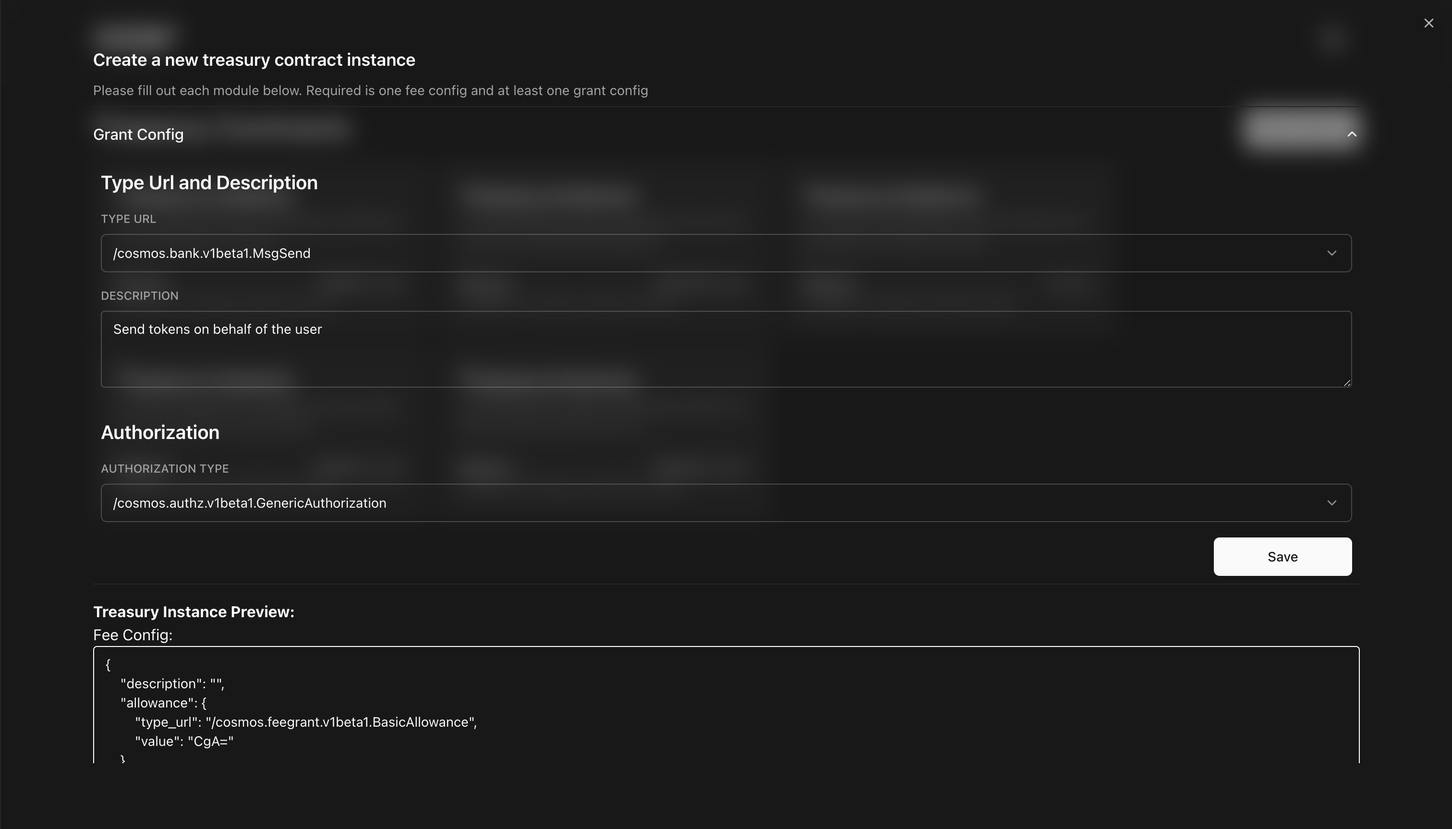
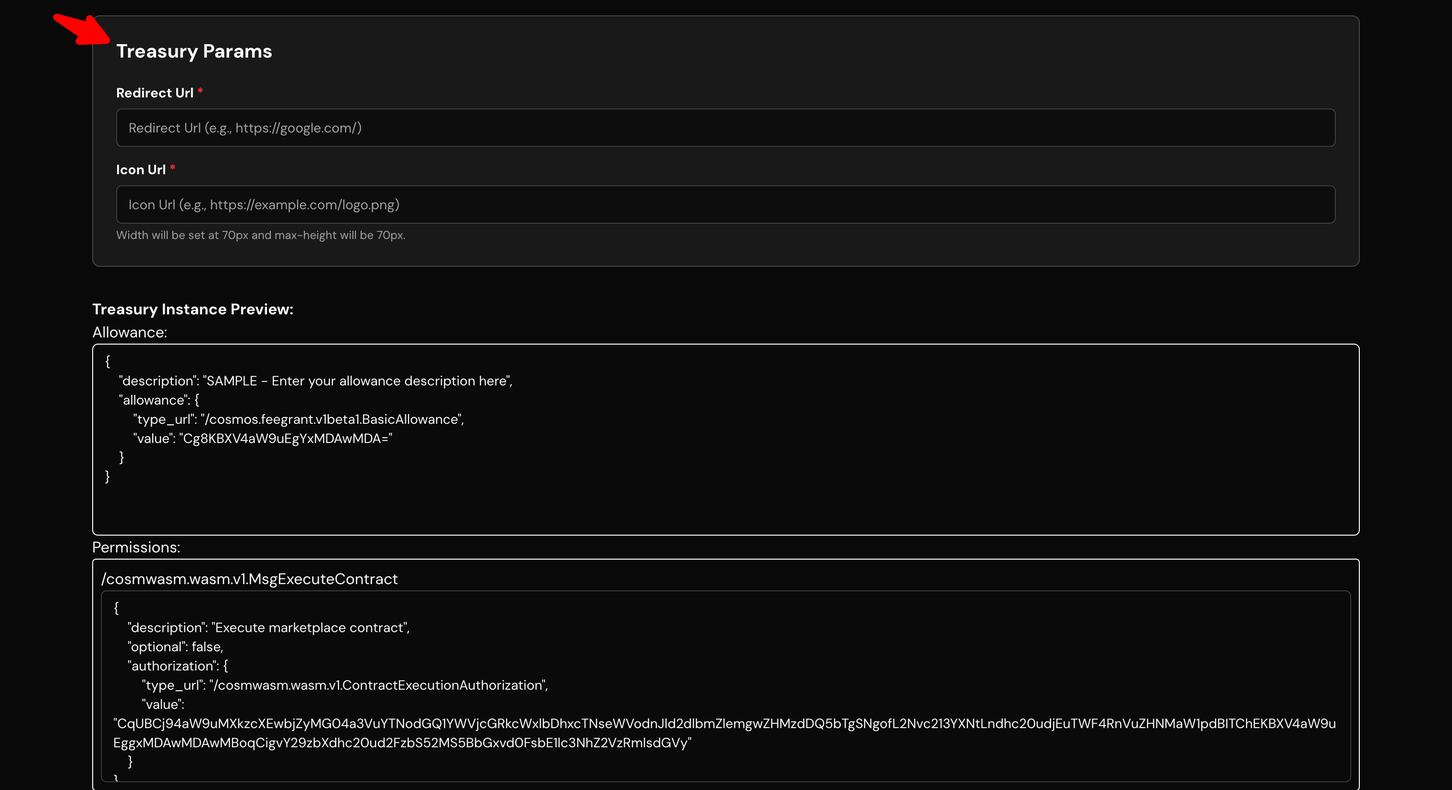
GITBOOK-487: No subject

diff --git a/developers/getting-started-advanced/gasless-ux-and-permission-grants/treasury-contracts.md b/developers/getting-started-advanced/gasless-ux-and-permission-grants/treasury-contracts.md
@@ -6,19 +6,19 @@ description: >-
 
 # Enabling Gasless Transactions with Treasury Contracts
 
-Treasury contracts introduce an OAuth-like authentication flow fully on-chain, allowing developers to create intricate allowance systems that enable delegated authorization. This allows an account (the granter — the end user) to grant permission to another account (the grantee — the treasury contract) to execute specific types of transactions on their behalf. These contracts also enable a gasless experience for end users via fee grants. This guide walks you through using the developer portal to deploy your app’s first treasury contract.
+Treasury contracts introduce an OAuth-like authentication flow fully on-chain, allowing developers to create intricate allowance systems that enable delegated authorization. This allows an account (the granter who is the end user) to grant permission to another account (the grantee, the treasury contract) to execute specific types of transactions on their behalf. These contracts also enable a gasless experience for end users via fee grants. This guide walks you through using the developer portal to deploy your app’s first treasury contract.
 
 {% hint style="info" %}
-Each treasury contract deployment is designed for a single app. Think of it like setting up OAuth for your application, where your app requests access to data from the XION chain on behalf of the user — without accessing any private information.
+Each treasury contract deployment is designed for a single app. Think of it like setting up OAuth for your application, where your app requests access to data from the XION chain on behalf of the user, without accessing any private information.
 {% endhint %}
 
 ## **Understanding Fee Grants and Authorizations**
 
-Treasury contracts leverage two key modules to provide their core functionality: **Fee Grants** and **Authz (Authorization)**. These modules enable **gasless transactions** and **delegated authorization**, enhancing the user experience.
+Treasury contracts leverage two key modules to provide their core functionality: **Fee Grants** and **Authz**. These modules enable **gasless transactions** and **delegated authorization**, enhancing the user experience.
 
 ### **Fee Grants**
 
-The **Fee Grant module** allows an account (**granter**) to cover gas fees for another account (**grantee**), making transactions **gasless for the end user**. This feature is particularly useful for **onboarding users**, as it removes the need for them to **hold native tokens** to pay for transaction fees.
+The **Fee Grant module** allows an account (**granter**) to cover gas fees for another account (**grantee**), making transactions **gasless** for the end user. This feature is particularly useful for **onboarding users**, as it removes the need for them to **hold native tokens** to pay for transaction fees.
 
 #### **How Fee Grants Work?**
 
@@ -55,7 +55,7 @@ By combining **Fee Grants** and **Authz**, **Treasury Contracts** offer **a seam
 
 We have developed a **Developer Portal** to provide resources that developers can leverage within their apps. The first feature available is the **creation and management of Treasury Contracts**. You can access the Developer Portal using the following links:
 
-* **Testnet**: [https://dev.testnet2.burnt.com](https://dev.testnet2.burnt.com)
+* **Testnet**: [https://dev.testnet.burnt.com](https://dev.testnet.burnt.com/)
 * **Mainnet**: [https://dev.burnt.com](https://dev.burnt.com)
 
 To perform any actions, you must **log in to the portal**. After logging in, you will be automatically redirected to the **Dashboard**, where you can create and manage your deployed Treasury Contracts.
@@ -75,19 +75,19 @@ The **Dashboard** displays all your deployed **Treasury Contracts**. Once you cr
 
 To create a new **Treasury Contract**, follow these steps:
 
-1. Click the **"New treasury"** button located at the **top right corner** of the Dashboard.
+1. Click the **"New Treasury"** button located at the **top right corner** of the Dashboard.
 2. A setup screen will appear, prompting you to configure the contract settings.
 
-<figure><img src="../../../.gitbook/assets/image (46).png" alt=""><figcaption></figcaption></figure>
+<figure><img src="../../../.gitbook/assets/image.png" alt=""><figcaption></figcaption></figure>
 
 You must complete the required fields for each module:
 
-* **Fee Grant:** At least **one fee grant** is required to enable gasless transactions.
-* **Grant Config:** At least **one authorization grant** must be set up to define transaction permissions.
+* **Allowance Configuration:** At least **one fee grant** is required to enable gasless transactions.
+* **Permissions:** At least **one authorization grant** must be set up to define transaction permissions.
 
 In the next sections, we'll go through each module in more detail.
 
-### Fee Grant
+### **Allowance Configuration (**&#x46;ee Grant)
 
 The **Fee Grant** section allows you to set up a mechanism to cover gas fees for user interactions within your app. There are three types of fee allowances available:
 
@@ -117,9 +117,9 @@ The **Fee Grant** section allows you to set up a mechanism to cover gas fees for
 
 Once saved, the Fee Grant settings will be applied, which you can see in the "T**reasury Instance Preview**":
 
-<figure><img src="../../../.gitbook/assets/image (47).png" alt=""><figcaption></figcaption></figure>
+<figure><img src="../../../.gitbook/assets/image (1).png" alt=""><figcaption></figcaption></figure>
 
-### Grant Configuration
+### Permissions
 
 This section allows you to define **transaction permissions (allowances)** that users must agree to before your app can execute actions on their behalf.
 
@@ -128,11 +128,11 @@ This section allows you to define **transaction permissions (allowances)** that 
 1. **Enter a Description**
    * Provide a **clear and concise description** explaining the purpose of the authorization.
    * This description will be shown to users when they click **"Allow"** after connecting their account.
-2. **Select a Type URL**
-   * The **Type URL** determines the kind of transactions your app will be authorized to perform.
-   * **Example**: Selecting `"/cosmwasm.wasm.v1.MsgExecuteContract"` allows your app to execute transactions on a smart contract on behalf of the user.
+2. **Select a Permission Type**
+   * The **Permission** **Type** determines the kind of transactions your app will be authorized to perform.
+   * **Example**: Selecting "`Execute on a smart contract`" allows your app to execute transactions on a smart contract on behalf of the user.
      * **Define Contract Execution Authorization**
-       * **Select the authorization type** (currently, `"/cosmwasm.wasm.v1.ContractExecutionAuthorization"` is the only option).
+       * **Select the authorization type** (currently, "`Contract execution authorization`" is the only option).
        * **Enter the contract address** that your app will interact with on behalf of the user.
      * **Set Transaction Limits (Optional)**
        * You can impose restrictions on:
@@ -144,25 +144,27 @@ This section allows you to define **transaction permissions (allowances)** that 
        * **Accepted message keys** – Specify which message types can be executed.
        * **Accepted raw messages** – Define precise message structures that can be processed.
 
-#### **Customization and Editing**
-
-* All configurations generated here can be edited and customized as needed.
-* Ensure that **keys are always in snake\_case** (e.g., `max_spend_limit`) and not camelCase (`maxSpendLimit`).
-
 Once configured, these settings define how your Treasury Contract interacts with users and enforces controlled transaction execution.
 
-<figure><img src="../../../.gitbook/assets/image (48).png" alt=""><figcaption></figcaption></figure>
+<figure><img src="../../../.gitbook/assets/image (3).png" alt=""><figcaption></figcaption></figure>
 
 Once you've entered all the required information, click the **"Add contract grant"** button.
 
 **Important Notes:**
 
-* You can add **multiple Grant Configs**, allowing you to define different permissions for various interactions.
-* After adding all the necessary grant configurations, click the **"Create"** button to finalize and deploy the Treasury Contract.
+* You can add **multiple Permissions**, allowing you to define different permissions for various interactions.
 
-<figure><img src="../../../.gitbook/assets/image (50).png" alt=""><figcaption></figcaption></figure>
+<figure><img src="../../../.gitbook/assets/image (4).png" alt=""><figcaption></figcaption></figure>
 
-Once created, the contract will appear on the **Dashboard**.
+### Treasury Params
+
+There are a few parameters that you can configure within your treasury contract instacne. Currently the parameters are limited to a **redirect URL** which is the URL users will be redirected to after successful login and **Icon URL** which will display this icon on the Abstraxion login screen.
+
+These two parameters are required and so you need to fill in the values:
+
+<figure><img src="../../../.gitbook/assets/image (6).png" alt=""><figcaption></figcaption></figure>
+
+Once those parameters have been added you can scroll down to the bottom of the page and click the "**Create**" button to create your treasury contract instance. Once created, the contract will appear on the **Dashboard**.
 
 {% hint style="success" %}
 **Fund the Treasury Contract**: Transfer **XION tokens** to the contract to ensure it can cover gas fees for fee grants.
@@ -172,7 +174,7 @@ Once created, the contract will appear on the **Dashboard**.
 
 Once a Treasury contract is created, it will appear in the **Dashboard**. To edit it, simply click on the contract from the list, which will open a management screen.
 
-<figure><img src="../../../.gitbook/assets/image (51).png" alt=""><figcaption></figcaption></figure>
+<figure><img src="../../../.gitbook/assets/image (7).png" alt=""><figcaption></figcaption></figure>
 
 ### Withdraw Funds
 
@@ -182,7 +184,7 @@ To withdraw any funds sent to the Treasury contract:
 2. A withdrawal screen will appear.
 3. Enter the amount to withdraw which transfers funds from the Treasury contract back to the admin account.
 
-<figure><img src="../../../.gitbook/assets/image (52).png" alt=""><figcaption></figcaption></figure>
+<figure><img src="../../../.gitbook/assets/image (8).png" alt=""><figcaption></figcaption></figure>
 
 ### Update Params <a href="#radix-r14" id="radix-r14"></a>
 
@@ -191,26 +193,30 @@ To modify the parameters:
 1. Click the **"Update Params"** button.
 2. A configuration screen will load, allowing you to adjust relevant params.
 
-<figure><img src="../../../.gitbook/assets/image (53).png" alt=""><figcaption></figcaption></figure>
+<figure><img src="../../../.gitbook/assets/image (9).png" alt=""><figcaption></figcaption></figure>
 
-### Update Fee Config
+### Edit Allowance
 
-To edit the fee config:
+To edit the allowance:
 
-1. Click the **"Edit"** button under the **Fee Config** section.
-2. This will open a screen where you can adjust the fee parameters.
+1. Click the **"Edit"** button under the **Allowance** section.
+2. This will open a screen where you can adjust the allowance parameters.
 
-<figure><img src="../../../.gitbook/assets/image (54).png" alt=""><figcaption></figcaption></figure>
+<figure><img src="../../../.gitbook/assets/image (10).png" alt=""><figcaption></figcaption></figure>
 
-### Update and Add Grant Configs
+### Update and Add Permissions
 
-To modify existing grant configurations or add new ones, click the **arrow** next to the listed permission.
+To add a new permission click the "**Add New**" button.
 
-<figure><img src="../../../.gitbook/assets/image (55).png" alt=""><figcaption></figcaption></figure>
+<figure><img src="../../../.gitbook/assets/image (11).png" alt=""><figcaption></figcaption></figure>
 
-A screen will open where you can edit the configuration:
+A screen will open where you can add the new permission:
 
-<figure><img src="../../../.gitbook/assets/image (56).png" alt=""><figcaption></figcaption></figure>
+<figure><img src="../../../.gitbook/assets/image (12).png" alt=""><figcaption></figcaption></figure>
+
+To edit a permission click the "**Edit**" button in the permission listing. A screen will open where you can edit the configuration:
+
+<figure><img src="../../../.gitbook/assets/image (13).png" alt=""><figcaption></figcaption></figure>
 
 If creating a new grant:
 
@@ -218,23 +224,19 @@ If creating a new grant:
 * Enter the required field data.
 * Click **"Save"** to create a new Grant Config.
 
-Each Grant Config will be displayed under the **Permissions** section in the Dashboard:
-
-<figure><img src="../../../.gitbook/assets/image (57).png" alt=""><figcaption></figcaption></figure>
-
 ### Delete a Grant Configs
 
 If you need to remove a grant configuration from your treasury contract, you can easily do so through the grant config listing interface. The process involves selecting the grant you wish to delete, confirming the action.
 
 To delete an existing grant configurations click the **trash bin** icon on the right of the listed permission.
 
-<figure><img src="../../../.gitbook/assets/image (3).png" alt=""><figcaption></figcaption></figure>
+<figure><img src="../../../.gitbook/assets/image (14).png" alt=""><figcaption></figcaption></figure>
 
 **Confirm Deletion**
 
 After clicking the trash bin icon, a popup window will appear with the title **"Remove grant config"**. The body of the popup will display the following message: _"**Are you sure you want to remove the \<type url of config> grant config?**"_
 
-<figure><img src="../../../.gitbook/assets/image (3) (1).png" alt=""><figcaption></figcaption></figure>
+<figure><img src="../../../.gitbook/assets/image (3) (1) (1).png" alt=""><figcaption></figcaption></figure>
 
 * **Cancel**: If you change your mind and do not want to delete the grant config, simply click the **Cancel** button to close the popup without making any changes.
 * **Confirm**: If you're sure you want to delete the grant config, click the **Confirm** button.

diff --git a/developers/learn-and-build/token-factory/building-a-react-dapp-to-interact-with-token-factory-tokens.md b/developers/learn-and-build/token-factory/building-a-react-dapp-to-interact-with-token-factory-tokens.md
@@ -1,4 +1,4 @@
-# Building a React App to Interact with Token Factory Tokens
+# Building a React dApp to Interact with Token Factory Tokens
 
 This guide walks through creating a React-based decentralized application (app) that interacts with a token created using the XION Token Factory. This app will:
 
@@ -51,7 +51,7 @@ Before integrating the **Abstraxion SDK** into the application, we first need to
 
 #### Fee Grant
 
-<figure><img src="../../../.gitbook/assets/image (9).png" alt=""><figcaption><p>Example of a general <strong>Fee Grant</strong> configuration</p></figcaption></figure>
+<figure><img src="../../../.gitbook/assets/image (9) (1).png" alt=""><figcaption><p>Example of a general <strong>Fee Grant</strong> configuration</p></figcaption></figure>
 
 1. Enter a **"Description"** in the description field. This will reflect the intended purpose of the request.
 2. In the **"Allowance Type"** field, enter `"/cosmwasm.feegrant.v1beta1.BasicAllowance"`.
@@ -60,7 +60,7 @@ Before integrating the **Abstraxion SDK** into the application, we first need to
 
 #### **Grant Config**
 
-<figure><img src="../../../.gitbook/assets/image (5).png" alt=""><figcaption><p>Example of additional <strong>Grant</strong> configuration</p></figcaption></figure>
+<figure><img src="../../../.gitbook/assets/image (5) (1).png" alt=""><figcaption><p>Example of additional <strong>Grant</strong> configuration</p></figcaption></figure>
 
 1. For this example the **"Type URL"** would be `"`/cosmos.bank.v1beta1.MsgSend`"` as this would allow for the app the send tokens on behalf of the user.
 2. Enter a **"Description"** in the description field. This will reflect the intended purpose of the request. This description will be displayed to users when they click **"Allow"** after connecting their account.
@@ -69,7 +69,7 @@ Before integrating the **Abstraxion SDK** into the application, we first need to
 
 #### Treasury Instance Preview
 
-<figure><img src="../../../.gitbook/assets/image (6).png" alt=""><figcaption></figcaption></figure>
+<figure><img src="../../../.gitbook/assets/image (6) (1).png" alt=""><figcaption></figcaption></figure>
 
 Once the preview is to your liking click the "**Create**" button to create the Treasury contract.
 

diff --git a/developers/getting-started-advanced/your-first-dapp/build-react-dapp-with-account-abstraxion.md b/developers/getting-started-advanced/your-first-dapp/build-react-dapp-with-account-abstraxion.md
@@ -84,7 +84,7 @@ Before integrating the **Abstraxion SDK** into the application, we first need to
 
 #### Fee Grant
 
-<figure><img src="../../../.gitbook/assets/image (9).png" alt=""><figcaption><p>Example of a general <strong>Fee Grant</strong> configuration</p></figcaption></figure>
+<figure><img src="../../../.gitbook/assets/image (9) (1).png" alt=""><figcaption><p>Example of a general <strong>Fee Grant</strong> configuration</p></figcaption></figure>
 
 1. Enter a **"Description"** in the respective field. This will reflect the intended purpose of the request. This description will be displayed to users when they click **"Allow"** after connecting their account.
 2. In the **"Allowance Type"** field, enter `"/cosmwasm.feegrant.v1beta1.BasicAllowance"`.
@@ -93,7 +93,7 @@ Before integrating the **Abstraxion SDK** into the application, we first need to
 
 #### **Grant Config**
 
-<figure><img src="../../../.gitbook/assets/image (11).png" alt=""><figcaption><p>Example of additional <strong>Grant</strong> configuration</p></figcaption></figure>
+<figure><img src="../../../.gitbook/assets/image (11) (1).png" alt=""><figcaption><p>Example of additional <strong>Grant</strong> configuration</p></figcaption></figure>
 
 1. For the **"Type URL"** field, select `"/cosmwasm.wasm.v1.MsgExecuteContract"`.
 2. Enter a **"Description"** in the respective field. This will reflect the intended purpose of the request. This description will be displayed to users when they click **"Allow"** after connecting their account.
@@ -108,7 +108,7 @@ Before integrating the **Abstraxion SDK** into the application, we first need to
 
 #### Treasury Instance Preview
 
-<figure><img src="../../../.gitbook/assets/image (10).png" alt=""><figcaption></figcaption></figure>
+<figure><img src="../../../.gitbook/assets/image (10) (1).png" alt=""><figcaption></figcaption></figure>
 
 Once the preview is to your liking click the "**Create**" button to create the Treasury contract.
 

diff --git a/developers/section-overview/cosmwasm-resources/introductory-section/README.md b/developers/section-overview/cosmwasm-resources/introductory-section/README.md
@@ -1,4 +1,4 @@
-# Introductory Section&#x20;
+# Introductory Section
 
 The introductory section provides an overview of the core principles behind CosmWasm Smart Contracts. While a basic familiarity with Rust could be beneficial, the material is designed to cater to individuals of all proficiency levels, irrespective of their prior experience. Our goal is to offer clear and accessible guidance, allowing newcomers to gain practical insights through a comprehensive, step-by-step tutorial that delves into the following subjects:
 
@@ -21,9 +21,8 @@ You might have observed that the development of smart contracts is not covered i
 
 [Deployment and Interaction](deployment-and-interaction/): This section demonstrates the deployment of a contract to the testnet, instantiation, and the execution of smart contract functions.
 
-[Next Steps](broken-reference): The concluding part of this tutorial, Next Steps, summarizes the Getting Started section and directs you towards further learning resources.
+[Next Steps](/broken/pages/BNCM8Cp6N7L23FSUHiRj): The concluding part of this tutorial, Next Steps, summarizes the Getting Started section and directs you towards further learning resources.
 
-\
+<br>
 
-
-\
+<br>

diff --git a/xions-core/learn/intro-to-account-abstraction.md b/xions-core/learn/intro-to-account-abstraction.md
@@ -19,4 +19,4 @@ The second type of account, smart contract accounts (SCAs), are governed by code
 
 ### Account Abstraction (AA)
 
-As a solution to EOA drawbacks mentioned above, account abstraction has been proposed as a way to enable SCAs to initiate transactions. Rather than having transaction authentication determined by a predefined set of rules at the state machine level, account abstraction delegates this task to SCAs. SCAs can then implement customized authentication logic as needed, such as accommodating key rotation, performing autonomous tasks, integrating multiple-factor authentication, and much more.\
+As a solution to EOA drawbacks mentioned above, account abstraction has been proposed as a way to enable SCAs to initiate transactions. Rather than having transaction authentication determined by a predefined set of rules at the state machine level, account abstraction delegates this task to SCAs. SCAs can then implement customized authentication logic as needed, such as accommodating key rotation, performing autonomous tasks, integrating multiple-factor authentication, and much more.<br>

diff --git a/developers/section-overview/cosmwasm-resources/architecture-of-multi-chain-contracts/comparison-with-ethereum-and-solidity-contracts.md b/developers/section-overview/cosmwasm-resources/architecture-of-multi-chain-contracts/comparison-with-ethereum-and-solidity-contracts.md
@@ -77,10 +77,8 @@ To develop resilient smart contract functionalities, it's essential to draw insi
 * **Floating Points and Precision**: Both Solidity and CosmWasm avoid floating-point operations due to potential non-determinism in rounding, which can vary depending on the CPU. In CosmWasm, you can seamlessly import Rust packages and select a suitable one for internal use. For instance, you can utilize "rust\_decimal," a pure Rust Decimal implementation suitable for precise financial calculations, or employ fixed-point decimal math, supporting up to 128-bit numbers, accommodating a wide range of use cases.
 * **Tx.Origin Authentication**: CosmWasm refrains from exposing tx.origin, relying solely on the contract or the user directly calling the contract through params.message.signer. This design ensures that only one value needs to be compared, eliminating the possibility of relying on incorrect authentication methods.
 
-\
+<br>
 
+<br>
 
-\
-
-
-\
+<br>

diff --git a/developers/section-overview/cosmwasm-resources/tutorials/key-value-storage/README.md b/developers/section-overview/cosmwasm-resources/tutorials/key-value-storage/README.md
@@ -10,8 +10,7 @@ This storage system is organized within a tree structure, specifically following
 
 To understand the workings of this key-value storage approach, let's delve into its mechanics:
 
-\
-
+<br>
 
 <figure><img src="../../../../../.gitbook/assets/AVL-tree-.png" alt=""><figcaption><p><a href="https://github.com/cosmos/iavl">cosmos/iavl </a>tree model</p></figcaption></figure>
 
@@ -62,4 +61,4 @@ We have two fundamental operations at play: Retrieving Individual Values and Ite
 
 There are just two core functionalities in operation: fetching a single value or navigating through a collection of keys. While data structures often require intricate relationships, we work within the confines of this constrained key-value storage, where these two fundamental operations are paramount.
 
-This is accomplished through the construction of indexes.\
+This is accomplished through the construction of indexes.<br>

diff --git a/developers/learn-and-build/use-cases/building-a-per-user-data-storage-dapp.md b/developers/learn-and-build/use-cases/building-a-per-user-data-storage-dapp.md
@@ -331,7 +331,7 @@ Learn more about Treasury Contracts [here](https://docs.burnt.com/xion/developer
 
 We've created a frontend which is a [Next.js](https://nextjs.org/) application built to interact with the **User Map** smart contract that can be downloaded at [https://github.com/burnt-labs/xion-user-map-json-store-frontend](https://github.com/burnt-labs/xion-user-map-json-store-frontend). It showcases how users can connect their wallets, submit JSON data to update their record, and query the stored data.
 
-<figure><img src="../../../.gitbook/assets/image (4).png" alt=""><figcaption></figcaption></figure>
+<figure><img src="../../../.gitbook/assets/image (4) (1).png" alt=""><figcaption></figcaption></figure>
 
 ### Manual Installation
 

diff --git a/developers/learn-and-build/zero-knowledge-on-xion/verifying-api-data-with-zero-knowledge-zkfetch.md b/developers/learn-and-build/zero-knowledge-on-xion/verifying-api-data-with-zero-knowledge-zkfetch.md
@@ -29,7 +29,7 @@ To get started, you’ll need to:
 3. Save your **Application ID** and **Application Secret**.
 4. On the application details screen enable "**zkFetch**"
 
-<figure><img src="../../../.gitbook/assets/image (1).png" alt=""><figcaption></figcaption></figure>
+<figure><img src="../../../.gitbook/assets/image (1) (1).png" alt=""><figcaption></figcaption></figure>
 
 
 
@@ -67,7 +67,7 @@ npm start
 
 The app runs locally at `http://localhost:3000`
 
-<figure><img src="../../../.gitbook/assets/image (2).png" alt=""><figcaption></figcaption></figure>
+<figure><img src="../../../.gitbook/assets/image (2) (1).png" alt=""><figcaption></figcaption></figure>
 
 
 

diff --git a/developers/section-overview/cosmwasm-resources/contract-semantics/testing.md b/developers/section-overview/cosmwasm-resources/contract-semantics/testing.md
@@ -246,4 +246,4 @@ pub fn contract_ping_pong_mock() -> Box<dyn Contract<Empty>> {
 
 In the process of defining your custom mocked contracts, you enjoy a considerable degree of flexibility. You can conveniently skip the inclusion of dependencies, environmental variables, and information variables that go unused, simply by using an underscore (\_). Furthermore, you hold the power to furnish any desired responses for specific ExecuteMsg or Query requests. The real challenge lies in effectively mocking these diverse services.
 
-\
+<br>

diff --git a/developers/section-overview/cosmwasm-resources/architecture-of-multi-chain-contracts/serialization-formats.md b/developers/section-overview/cosmwasm-resources/architecture-of-multi-chain-contracts/serialization-formats.md
@@ -18,4 +18,4 @@ Protobuf is a well-known and widely-supported binary format that provides a stri
 
 Cap'n Proto is a super-lean encoding format with zero-copy reads and no parsing needed. This has been suggested for use in CosmWasm as an optional addition. It may be considered an opt-in format for contracts desiring such efficiency or strict schema, or possibly just used for encoding internal data structures (Params).
 
-\
+<br>

diff --git a/developers/section-overview/cosmwasm-resources/architecture-of-multi-chain-contracts/querying-contract-state.md b/developers/section-overview/cosmwasm-resources/architecture-of-multi-chain-contracts/querying-contract-state.md
@@ -34,4 +34,4 @@ As such, we provide the **Querier** with read-only access to the state snapshot 
 
 Keep in mind that all queries are performed as part of a transaction, which already has a strongly enforced gas limit. All storage reads and data processing performed as part of a query are deducted from the same gas meter as the rest of the transaction and thus limit processing time.
 
-\
+<br>
